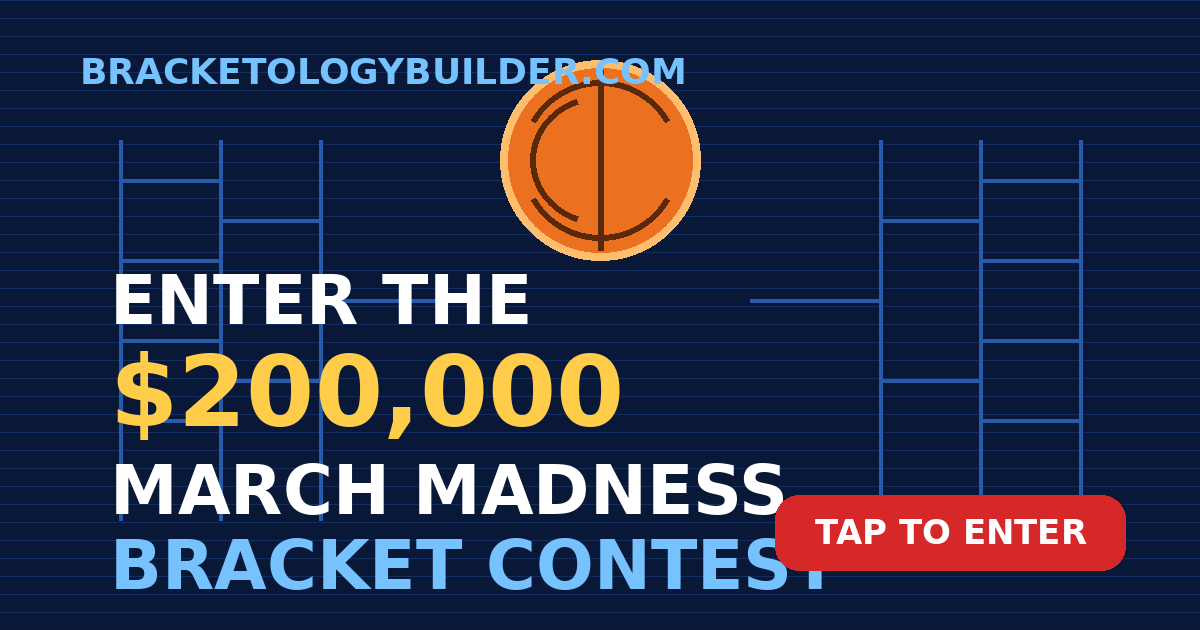
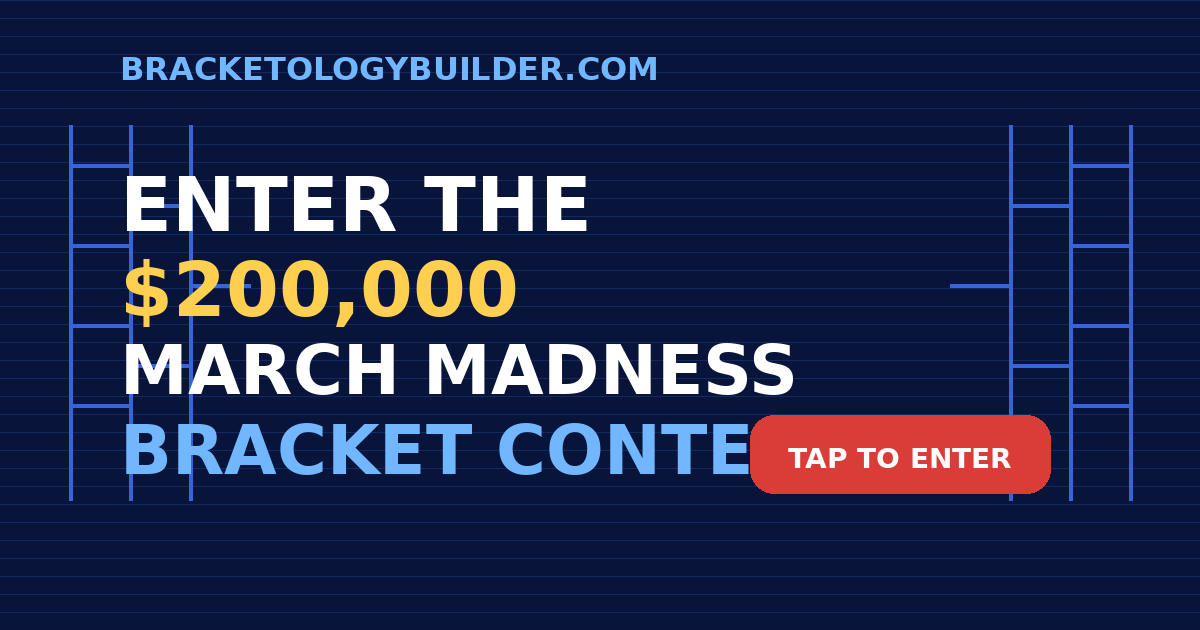
Add files via upload

Changed region(s): [[0.0308, 0.0905, 0.9558, 0.9349]]

diff --git a/functions/200k.js b/functions/200k.js
@@ -11,72 +11,117 @@ export async function onRequest({ request }) {
   <meta name="viewport" content="width=device-width, initial-scale=1">
   <meta name="description" content="Enter the $200,000 March Madness Bracket Contest through BracketologyBuilder.">
   <meta property="og:title" content="🏀 Enter the $200,000 March Madness Bracket Contest">
-  <meta property="og:description" content="A fun March Madness contest link from BracketologyBuilder. Tap to enter.">
+  <meta property="og:description" content="Tap to enter through BracketologyBuilder.">
   <meta property="og:image" content="${ogImage}">
+  <meta property="og:image:width" content="1200">
+  <meta property="og:image:height" content="630">
   <meta property="og:url" content="${url.origin}/200k">
   <meta property="og:type" content="website">
   <meta property="og:site_name" content="BracketologyBuilder">
   <meta name="twitter:card" content="summary_large_image">
   <meta name="twitter:title" content="🏀 Enter the $200,000 March Madness Bracket Contest">
-  <meta name="twitter:description" content="A fun March Madness contest link from BracketologyBuilder. Tap to enter.">
+  <meta name="twitter:description" content="Tap to enter through BracketologyBuilder.">
   <meta name="twitter:image" content="${ogImage}">
   <meta http-equiv="refresh" content="1; url=${affiliateUrl}">
   <style>
     :root{
-      --bg1:#09142f; --bg2:#0f2c68; --gold:#ffcd4a; --blue:#5fc0ff; --red:#d62828;
+      --bg1:#09142f; --bg2:#113173; --gold:#ffcd4a; --blue:#6fb9ff; --red:#d92d2d;
     }
     *{box-sizing:border-box}
+    html,body{height:100%}
     body{
-      margin:0; min-height:100vh; display:flex; align-items:center; justify-content:center;
-      font-family:Arial,Helvetica,sans-serif; color:#fff;
+      margin:0;
+      min-height:100vh;
+      font-family:Arial,Helvetica,sans-serif;
+      color:#fff;
       background:
-        radial-gradient(circle at top right, rgba(95,192,255,.18), transparent 28%),
-        radial-gradient(circle at bottom left, rgba(255,205,74,.14), transparent 30%),
+        radial-gradient(circle at top right, rgba(95,192,255,.12), transparent 30%),
+        radial-gradient(circle at bottom left, rgba(255,205,74,.10), transparent 30%),
         linear-gradient(135deg,var(--bg1),var(--bg2));
-      padding:24px;
+      padding:20px;
+    }
+    .wrap{
+      min-height:calc(100vh - 40px);
+      display:flex;
+      align-items:center;
+      justify-content:center;
     }
     .card{
-      width:min(720px,100%); border-radius:24px; padding:28px; position:relative;
-      background:rgba(255,255,255,.06); border:1px solid rgba(255,255,255,.16);
-      backdrop-filter: blur(8px); box-shadow:0 20px 60px rgba(0,0,0,.35);
-      overflow:hidden;
+      width:min(820px,100%);
+      border-radius:28px;
+      padding:28px;
+      background:rgba(255,255,255,.06);
+      border:1px solid rgba(255,255,255,.14);
+      box-shadow:0 18px 50px rgba(0,0,0,.35);
+      backdrop-filter: blur(8px);
     }
-    .eyebrow{color:var(--blue); font-weight:800; letter-spacing:.06em; font-size:14px}
-    h1{margin:12px 0 10px; font-size:clamp(30px,6vw,52px); line-height:1.02}
+    .eyebrow{color:var(--blue); font-weight:800; letter-spacing:.06em; font-size:15px; margin-bottom:10px}
+    h1{
+      margin:0 0 14px;
+      font-size:clamp(34px,7vw,58px);
+      line-height:1.02;
+      max-width:680px;
+    }
     .gold{color:var(--gold)}
-    p{font-size:18px; line-height:1.55; margin:0 0 22px; color:#ebf3ff}
-    .actions{display:flex; flex-wrap:wrap; gap:12px; align-items:center}
+    p{
+      font-size:clamp(18px,3.6vw,24px);
+      line-height:1.45;
+      margin:0 0 22px;
+      color:#ecf3ff;
+      max-width:650px;
+    }
+    .actions{
+      display:flex;
+      flex-wrap:wrap;
+      gap:14px;
+      align-items:center;
+      margin-top:10px;
+    }
     .btn{
-      display:inline-block; padding:16px 22px; border-radius:14px; font-weight:800; text-decoration:none;
-      color:#fff; background:var(--red); box-shadow:0 10px 28px rgba(214,40,40,.35); border:none; cursor:pointer;
+      display:inline-block;
+      padding:16px 24px;
+      border-radius:16px;
+      font-weight:800;
+      text-decoration:none;
+      color:#fff;
+      background:var(--red);
+      box-shadow:0 10px 28px rgba(217,45,45,.35);
+      font-size:20px;
     }
-    .btn.secondary{background:#2048a5; box-shadow:0 10px 28px rgba(32,72,165,.35)}
-    .sub{font-size:14px; color:#cfe4ff}
-    .ball{
-      position:absolute; right:-10px; top:-10px; width:150px; height:150px; border-radius:50%;
-      background:#eb7120; box-shadow: inset 0 0 0 6px rgba(255,205,74,.35);
-      opacity:.95;
+    .sub{
+      width:100%;
+      color:#d7e7ff;
+      font-size:14px;
+      margin-top:4px;
     }
-    .ball:before,.ball:after{content:""; position:absolute; inset:18px; border:4px solid #5e2b09; border-radius:50%}
-    .ball:before{clip-path: inset(0 50% 0 0)}
-    .ball:after{clip-path: inset(0 0 0 50%)}
-    .linev,.lineh{position:absolute; background:#5e2b09}
-    .linev{left:50%; top:10px; width:4px; height:130px; transform:translateX(-50%)}
-    .lineh{left:16px; right:16px; top:50%; height:4px; transform:translateY(-50%)}
-    .tiny{margin-top:12px; font-size:12px; color:#b7cfff}
+    @media (max-width: 700px){
+      body{padding:0}
+      .wrap{min-height:100vh}
+      .card{
+        width:100%;
+        min-height:100vh;
+        border-radius:0;
+        display:flex;
+        flex-direction:column;
+        justify-content:center;
+        padding:28px 24px;
+      }
+      h1{max-width:none}
+      p{max-width:none}
+    }
   </style>
 </head>
 <body>
-  <div class="card">
-    <div class="ball"><div class="linev"></div><div class="lineh"></div></div>
-    <div class="eyebrow">BRACKETOLOGYBUILDER.COM</div>
-    <h1>🏀 Enter the <span class="gold">$200,000</span><br>March Madness Bracket Contest</h1>
-    <p>Tap below to enter. You’ll be redirected automatically in a moment.</p>
-    <div class="actions">
-      <a class="btn" href="${affiliateUrl}" rel="noopener noreferrer">Enter the Contest</a>
-      <div class="sub">Fun link for DMs, texts, and social shares.</div>
+  <div class="wrap">
+    <div class="card">
+      <div class="eyebrow">BRACKETOLOGYBUILDER.COM</div>
+      <h1>🏀 Enter the <span class="gold">$200,000</span><br>March Madness Bracket Contest</h1>
+      <p>Tap below to enter. You’ll be redirected automatically in a moment.</p>
+      <div class="actions">
+        <a class="btn" href="${affiliateUrl}" rel="noopener noreferrer">Enter the Contest</a>
+        <div class="sub">Share this link with friends: bracketologybuilder.com/200k</div>
+      </div>
     </div>
-    <div class="tiny">If you are not redirected automatically, use the button above.</div>
   </div>
 </body>
 </html>`;
